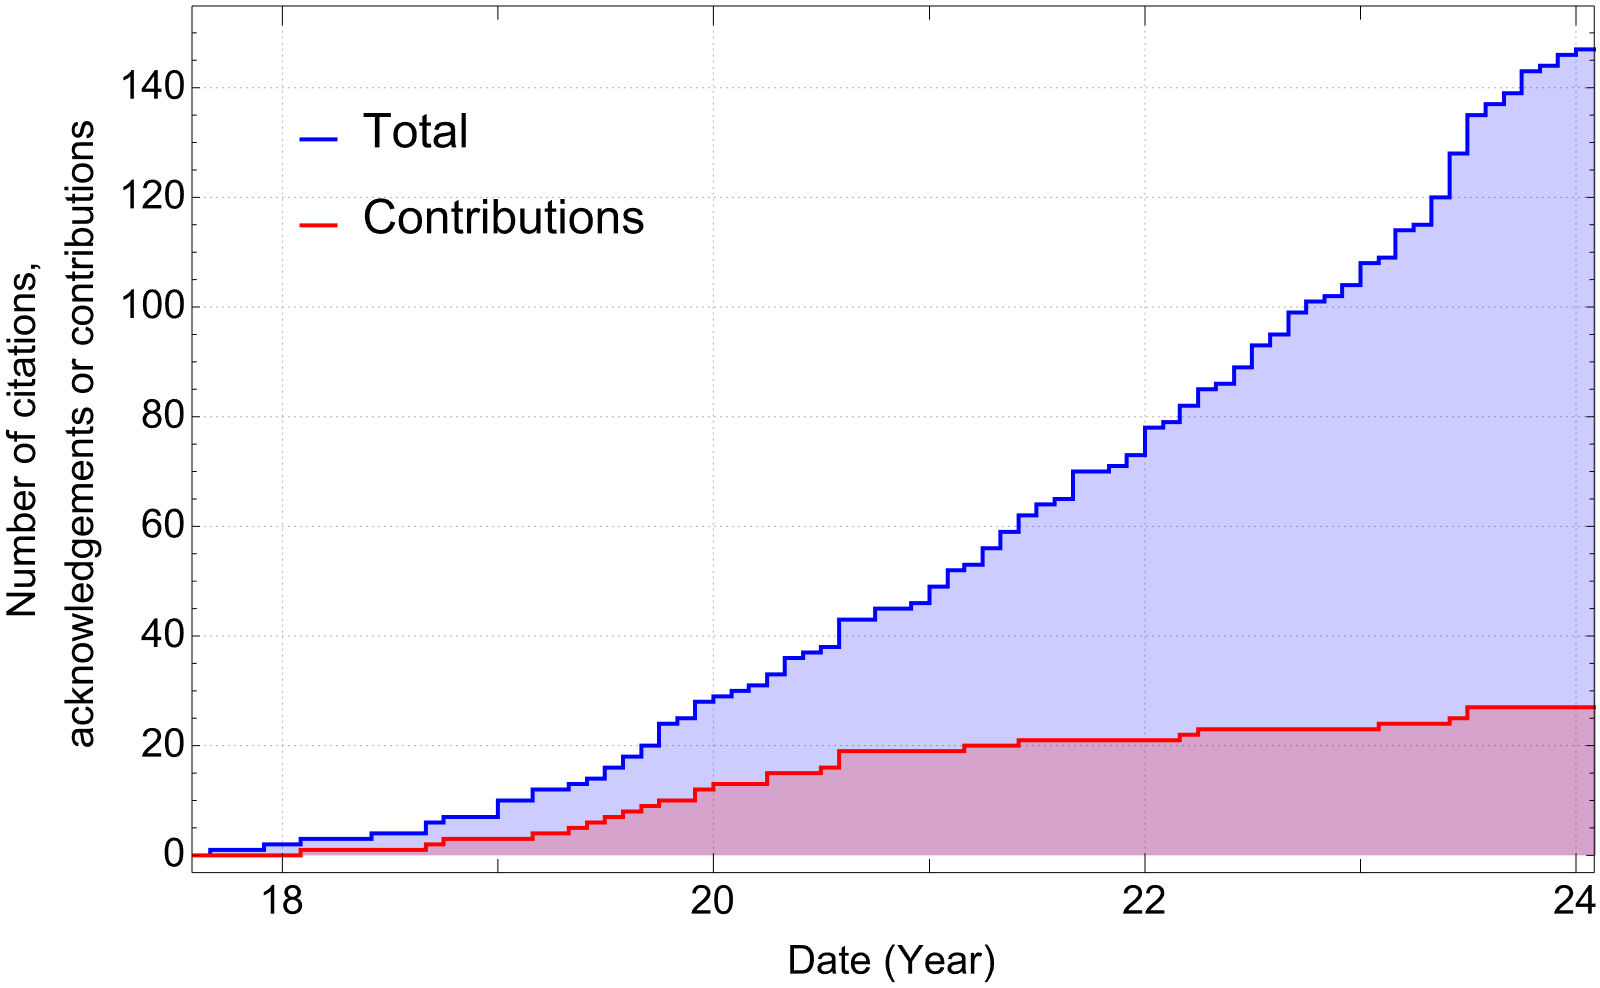
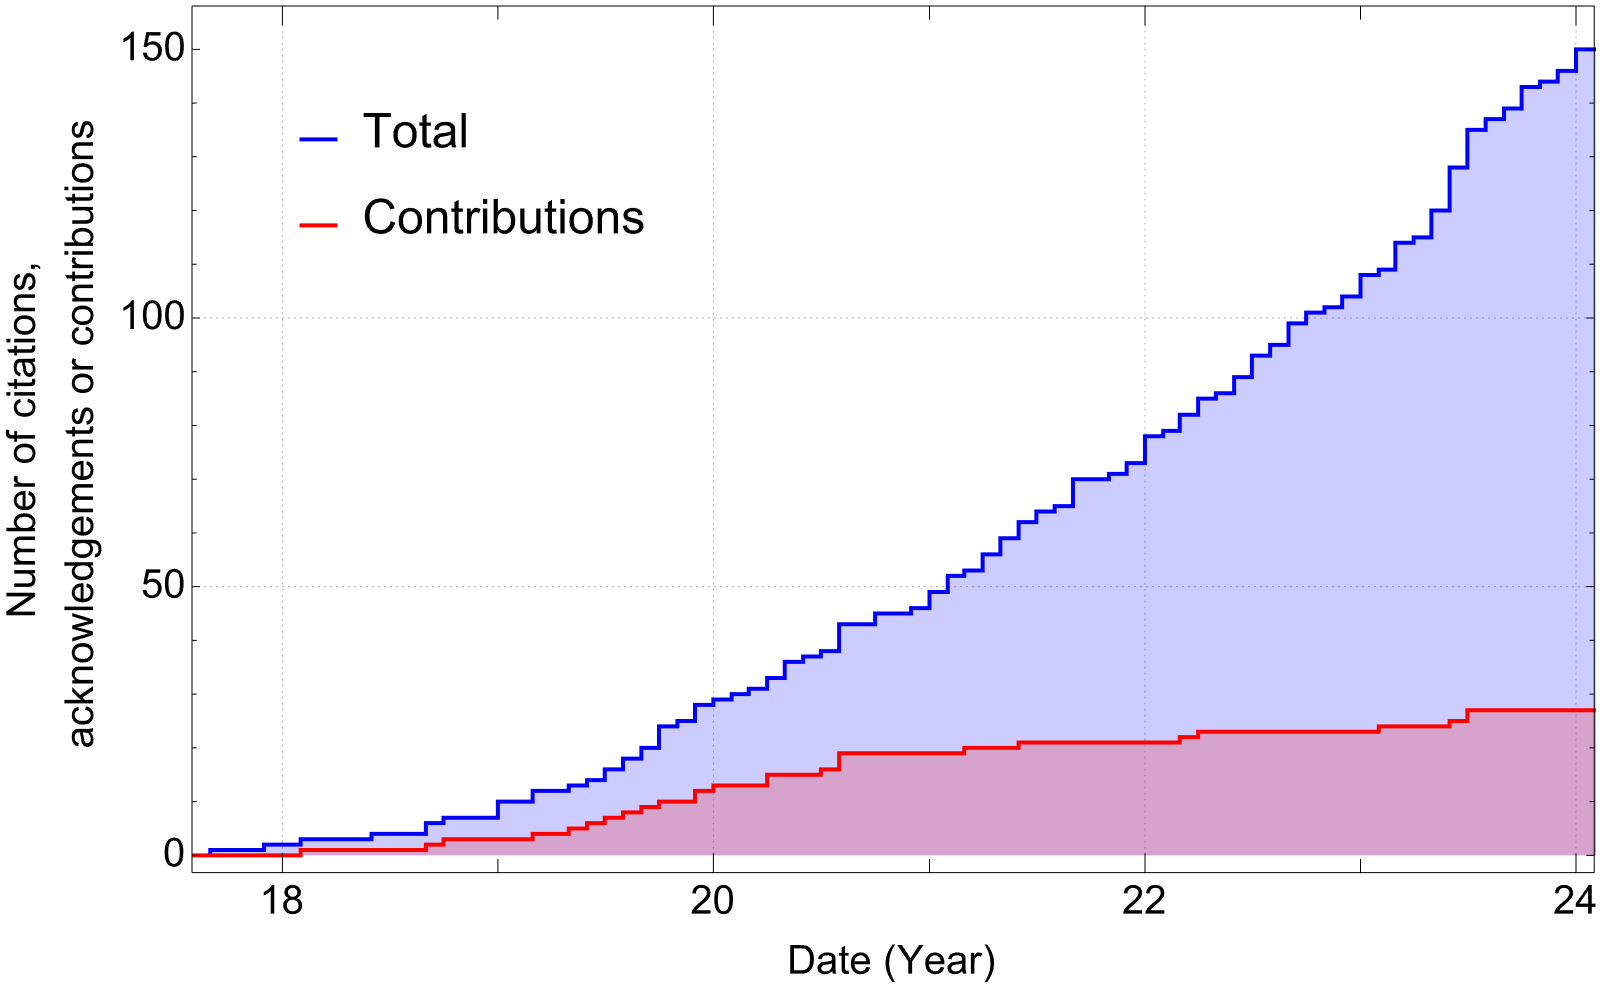
Add 3 recent papers that cite the BHPToolkit

diff --git a/users.md b/users.md
@@ -19,6 +19,12 @@ The graph below show the accumulated citations to the Toolkit over time. The blu
 
 Below is a list of research papers that have used or extended the Toolkit. Papers that have contributed code or data to the Toolkit have a (*) after them.
 
+150\. "Extreme mass-ratio inspirals as probes of scalar fields: inclined circular orbits around Kerr black holes", Matteo Della Rocca, Susanna Barsanti, Leonardo Gualtieri, Andrea Maselli, [arXiv:2401.09542](https://arxiv.org/abs/2401.09542)
+
+149\. "DiscoTEX: Discontinuous collocation and implicit-turned-explicit (IMTEX) integration symplectic, symmetric numerical algorithms with higher order jumps for differential equations with numerical black hole perturbation theory applications", Lidia J. Gomes Da Silva, [arXiv:2401.08758](https://arxiv.org/abs/2401.08758)
+
+148\. "Testing gravity with Extreme-Mass-Ratio Inspirals", Alejandro Cárdenas-Avendaño, Carlos F. Sopuerta, [arXiv:2401.08085](https://arxiv.org/abs/2401.08085)
+
 147\. "Detecting dark matter with extreme mass-ratio inspirals", Chao Zhang, Guoyang Fu, Ning Dai, [arXiv:2401.04467](https://arxiv.org/abs/2401.04467)
 
 146\. "Black Hole Perturbation Theory Meets CFT2: Kerr Compton Amplitudes from Nekrasov-Shatashvili Functions", Yilber Fabian Bautista, Giulio Bonelli, Cristoforo Iossa, Alessandro Tanzini, Zihan Zhou, [arXiv:2312.05965](https://arxiv.org/abs/2312.05965)
